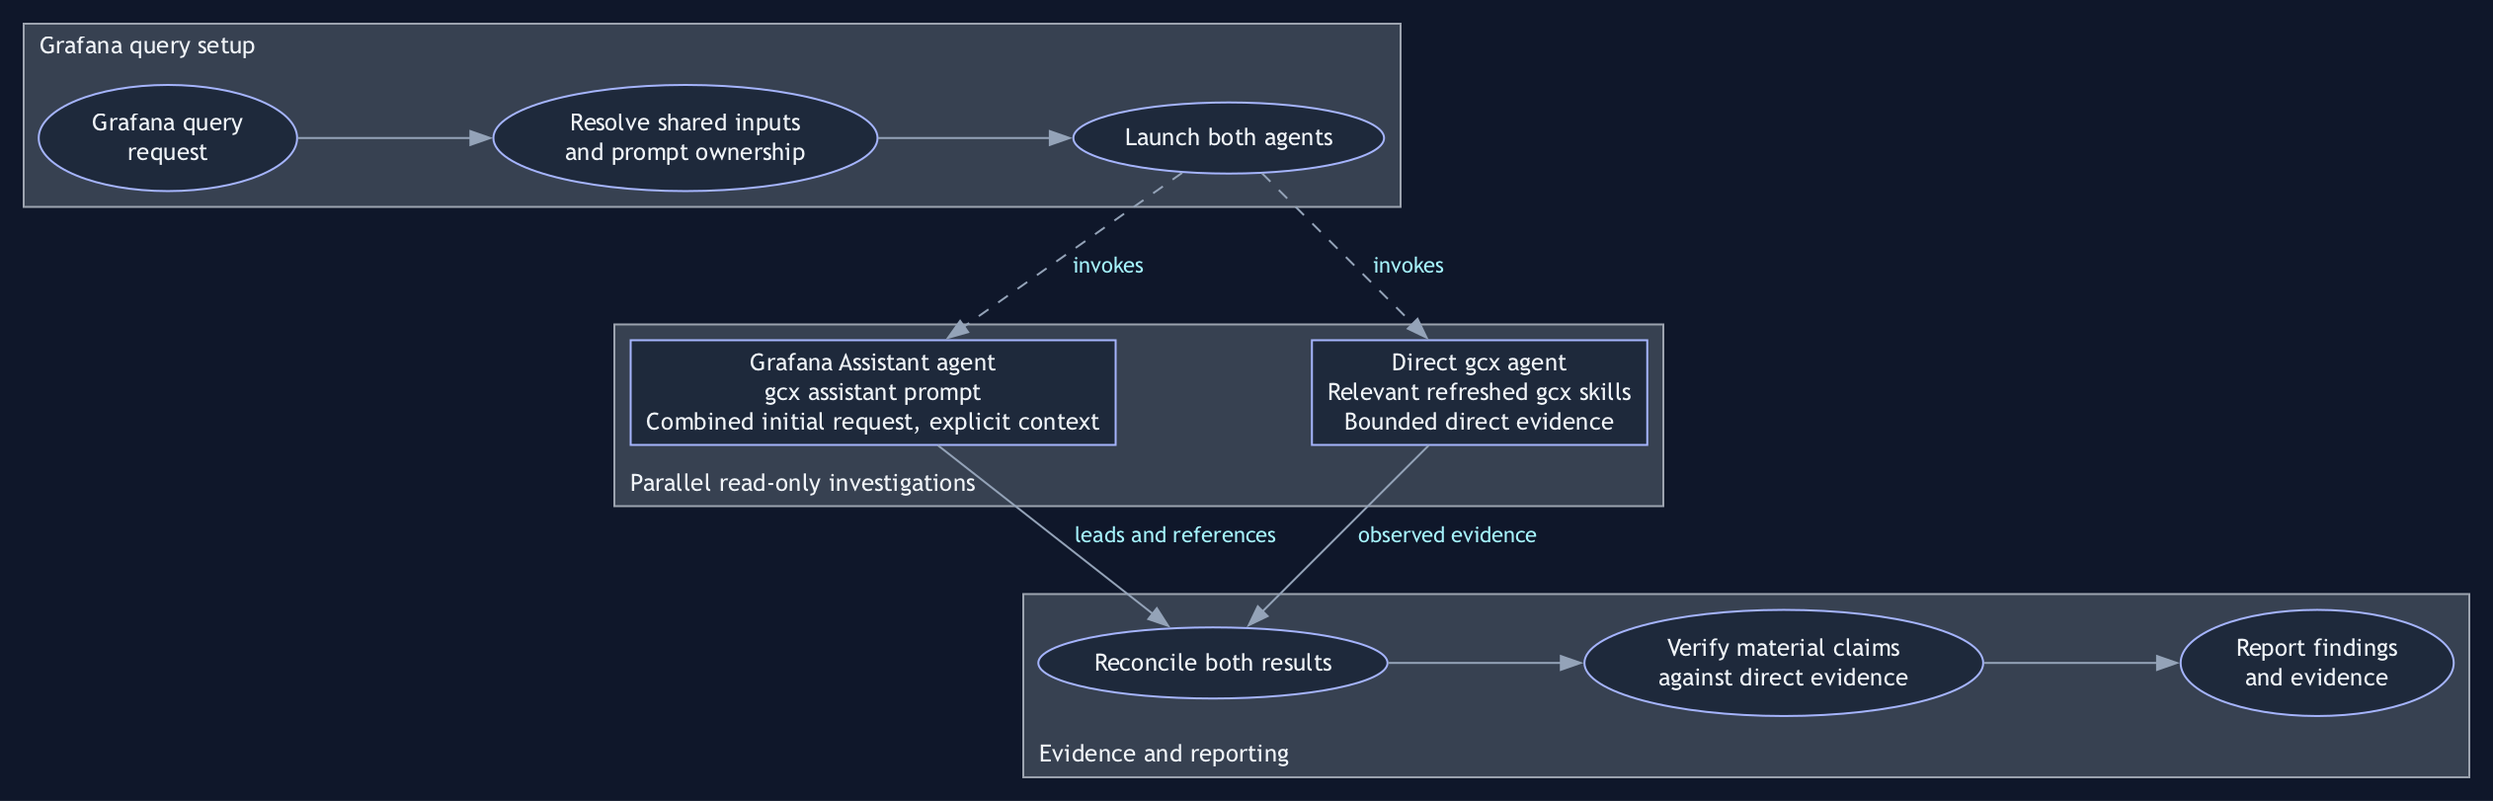
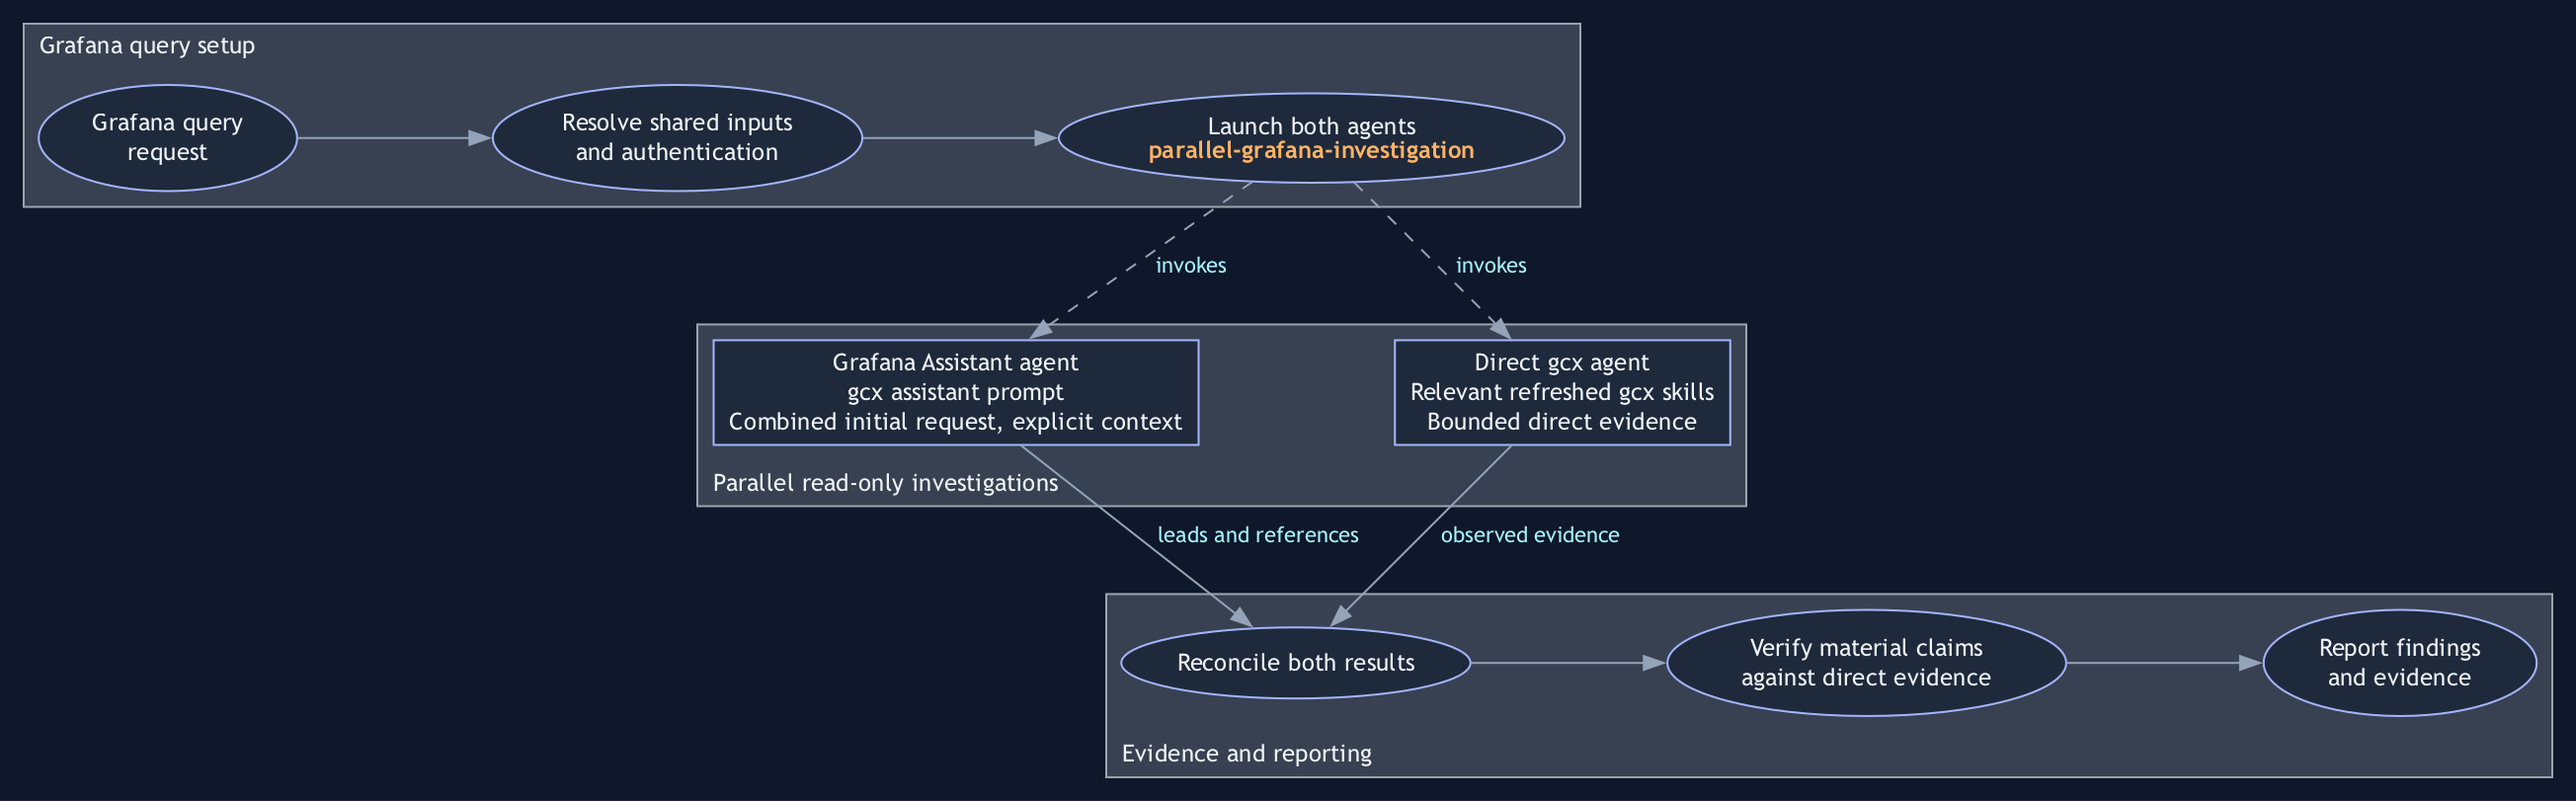
docs: match parallel Grafana diagram to supplied visual pattern (#68)

diff --git a/diagrams/DIAGRAM-parallel-alert-investigation.md b/diagrams/DIAGRAM-parallel-alert-investigation.md
@@ -2,7 +2,7 @@
 
 <picture>
   <source media="(prefers-color-scheme: dark)" srcset="DIAGRAM-parallel-alert-investigation-dark.png">
-  <img src="DIAGRAM-parallel-alert-investigation-light.png" alt="A Grafana query request resolves shared inputs and authentication, launches Grafana Assistant and direct gcx queries in parallel, then reconciles their results, verifies claims, and produces a report.">
+  <img src="DIAGRAM-parallel-alert-investigation-light.png" alt="Three shaded rows show request, shared-input resolution and authentication, parallel Assistant and direct gcx agents, then reconciliation, verification and reporting. The launch step highlights parallel-grafana-investigation in orange.">
 </picture>
 
 The two agents receive the same resolved Grafana context, request, resources, filters, limits, applicable
@@ -10,6 +10,10 @@ environment/window/timezone and read-only scope. Both launch
 before either result is awaited; the direct investigation proceeds independently
 of the Assistant response. Solid arrows show handoffs; dashed arrows show
 invocation. Ovals identify activities and boxes identify the two agent calls.
+The three shaded rows match the supplied visual reference; the launch activity highlights
+`parallel-grafana-investigation` in orange. The main path remains request → resolve inputs
+and authentication → launch, with no separate plan-approval step. Prompt ownership is
+resolved with the shared inputs before launch.
 
 Assistant conclusions are investigation leads. Retain its prompt, response and
 conversation identifiers, references, and limitations. The other agent invokes

diff --git a/README.md b/README.md
@@ -453,10 +453,11 @@ See the [skill README](skills/parallel-grafana-investigation/README.md) for deta
 
 <picture>
   <source media="(prefers-color-scheme: dark)" srcset="diagrams/DIAGRAM-parallel-alert-investigation-dark.png">
-  <img alt="A Grafana query request resolves shared inputs and authentication, launches Grafana Assistant and direct gcx queries in parallel, then reconciles their results, verifies claims, and produces a report." src="diagrams/DIAGRAM-parallel-alert-investigation-light.png">
+  <img alt="Three shaded rows show request, shared-input resolution and authentication, parallel Assistant and direct gcx agents, then reconciliation, verification and reporting. The launch step highlights parallel-grafana-investigation in orange." src="diagrams/DIAGRAM-parallel-alert-investigation-light.png">
 </picture>
 
-**Figure 4 — Parallel Grafana investigation.** Both agents launch — before
+**Figure 4 — Parallel Grafana investigation.** The orange skill name identifies the
+launch owner within the three-row visual pattern. Both agents launch — before
 either result is awaited — with the same resolved Grafana context, request, resource scope, filters, limits and applicable
 environment, exact time window and timezone. Solid arrows are handoffs; dashed arrows are invocation;
 ovals are activities and boxes are the two agent calls. Assistant conclusions

diff --git a/skills/parallel-grafana-investigation/README.md b/skills/parallel-grafana-investigation/README.md
@@ -10,6 +10,18 @@ This skill was generalized from `parallel-alert-investigation`. The name
 metrics, logs, traces, inventory, SLOs, Synthetic Monitoring and other resource reads.
 The runtime instructions live in [SKILL.md](SKILL.md); this README explains them.
 
+<picture>
+  <source media="(prefers-color-scheme: dark)" srcset="../../diagrams/DIAGRAM-parallel-alert-investigation-dark.png">
+  <img alt="Three shaded rows show the Grafana query setup, two parallel read-only agents, and evidence verification and reporting. The launch activity highlights parallel-grafana-investigation in orange." src="../../diagrams/DIAGRAM-parallel-alert-investigation-light.png">
+</picture>
+
+The launch activity highlights this skill in orange. Ovals are activities, boxes are
+agent calls, solid arrows are handoffs, and dashed arrows invoke agents. The request
+already authorizes read-only work; the visual pattern introduces no separate approval
+step. Assistant-disabled and degraded runs follow the rules below. This depicts the
+workflow, not evidence of an executed investigation. See the
+[diagram source and regeneration notes](../../diagrams/DIAGRAM-parallel-alert-investigation.md).
+
 ## How the work is divided
 
 The split is by investigation method. Both agents answer the same request within the
